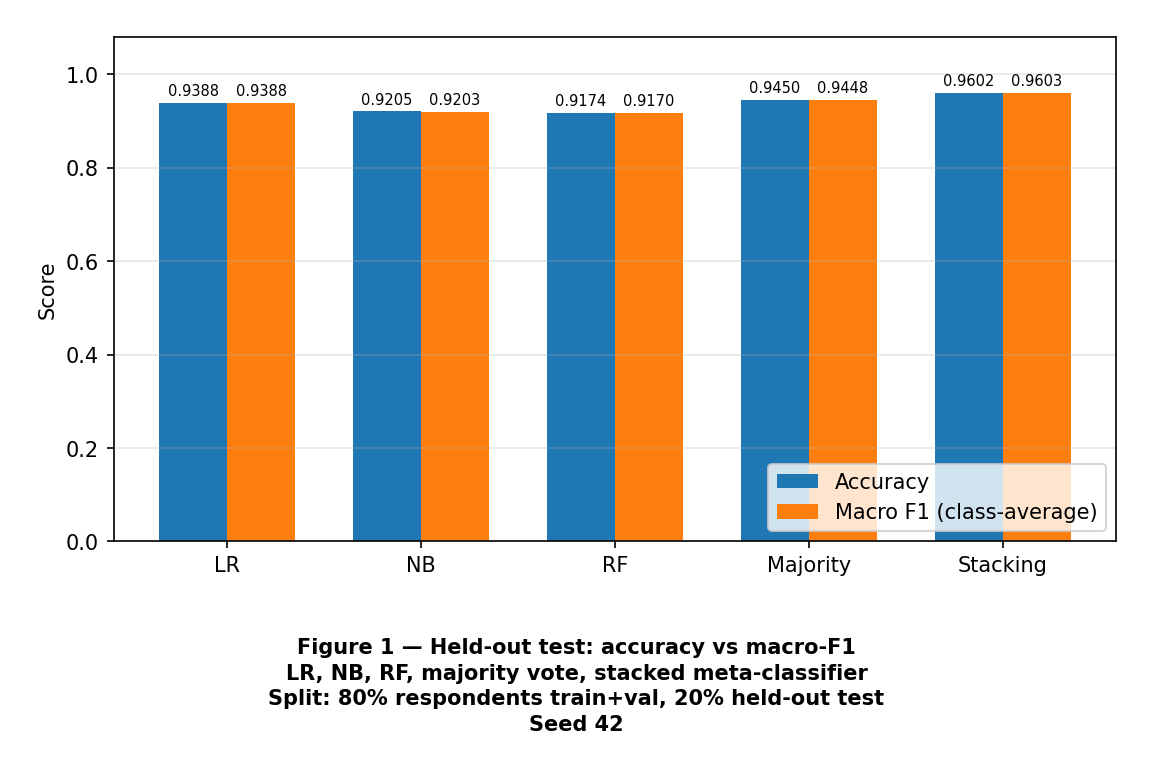
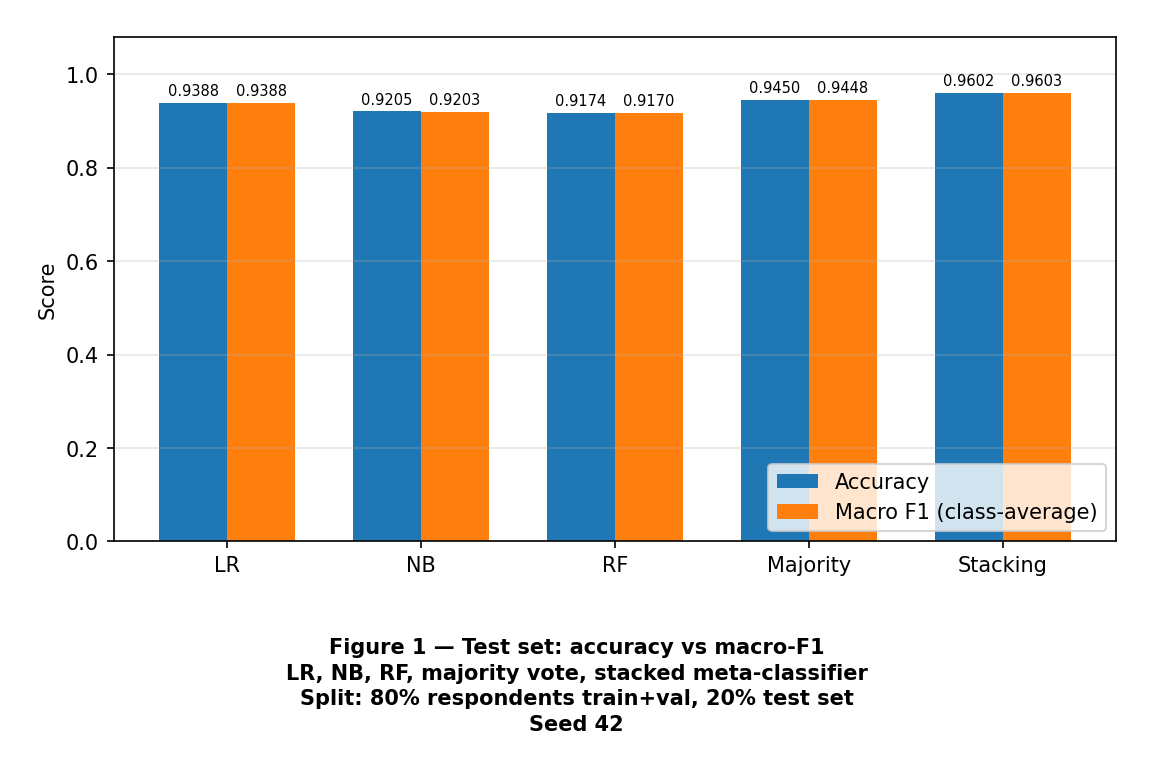
plots: say test set instead of held-out (clearer for report)
Made-with: Cursor

Changed region(s): [[0.2186, 0.8083, 0.7806, 0.9326]]

diff --git a/report_figures.py b/report_figures.py
@@ -14,13 +14,13 @@ Usage (repository root, ``training_data.csv`` present)::
 **Outputs (rubric mapping)**
 
 ``plots/01_model_compare_test.png``
-    Bar chart: held-out test accuracy and macro-F1 for LR, NB, RF, majority vote, stacking.
+    Bar chart: test-set accuracy and macro-F1 for LR, NB, RF, majority vote, stacking.
 
 ``plots/02_confusion_matrix_stacking.png``
-    Confusion matrix for stacked classifier on held-out 20% test.
+    Confusion matrix for stacked classifier on the 20% test set.
 
 ``plots/03_errors_true_starry_night.png``
-    True class Starry Night: distribution of predicted labels on held-out test.
+    True class Starry Night: distribution of predicted labels on the test set.
 
 ``plots/04_partition_seed_sensitivity.png``
     Stacking test accuracy vs random seed for the train/test split (same 80/20 protocol).
@@ -104,9 +104,9 @@ def figure_model_compare(r: dict, path: Path, split_seed: int) -> None:
     _figure_label_below(
         fig,
         (
-            "Figure 1 — Held-out test: accuracy vs macro-F1",
+            "Figure 1 — Test set: accuracy vs macro-F1",
             "LR, NB, RF, majority vote, stacked meta-classifier",
-            "Split: 80% respondents train+val, 20% held-out test",
+            "Split: 80% respondents train+val, 20% test set",
             f"Seed {split_seed}",
         ),
     )
@@ -144,9 +144,9 @@ def figure_confusion_matrix(
     _figure_label_below(
         fig,
         (
-            "Figure 2 — Confusion matrix (stacked classifier, held-out test)",
+            "Figure 2 — Confusion matrix (stacked classifier, test set)",
             "Rows: true class, columns: predicted class (counts)",
-            "Split: 80% respondents train+val, 20% test",
+            "Split: 80% respondents train+val, 20% test set",
             f"Seed {split_seed}",
         ),
     )
@@ -175,7 +175,7 @@ def figure_starry_night_errors(r: dict, path: Path, split_seed: int) -> None:
     _figure_label_below(
         fig,
         (
-            "Figure 3 — True class: The Starry Night (held-out test rows)",
+            "Figure 3 — True class: The Starry Night (test set rows only)",
             "Counts of predicted class by the stacked model",
             "Same split as Figures 1–2",
             f"Seed {split_seed}",
@@ -190,7 +190,7 @@ def figure_stability_seeds(rows: list[tuple[int, float]], path: Path) -> None:
     fig, ax = plt.subplots(figsize=(6.5, 4.8))
     ax.plot(seeds, accs, "o-", linewidth=2, markersize=8)
     ax.set_xlabel("Random seed (80/20 train+val vs test, same protocol each run)")
-    ax.set_ylabel("Stacking accuracy on held-out 20% test")
+    ax.set_ylabel("Stacking accuracy on 20% test set")
     ax.grid(True, alpha=0.3)
     m = min(accs)
     ax.axhline(m, color="gray", linestyle="--", alpha=0.7, label=f"min={m:.4f}")

diff --git a/plots/README.md b/plots/README.md
@@ -5,7 +5,7 @@ Generated by `python report_figures.py` from the repository root. Each PNG has a
 | File | Short description |
 |------|-------------------|
 | `01_model_compare_test.png` | Test accuracy and macro-F1 for LR, NB, RF, majority vote, stacking. |
-| `02_confusion_matrix_stacking.png` | Confusion matrix for stacking on held-out test. |
+| `02_confusion_matrix_stacking.png` | Confusion matrix for stacking on the test set. |
 | `03_errors_true_starry_night.png` | Distribution of predictions when true class is *The Starry Night*. |
 | `04_partition_seed_sensitivity.png` | Stacking test accuracy vs six RNG seeds for shuffling persons before 80/20 split. |
 | `05_appendix_model_compare_min_mean_max.csv` | Numeric min/mean/max (model A; add B/C with `--appendix`). |
